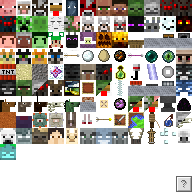
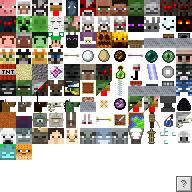
Added identifier aliases for experience orb and iron golem. Added an entity marker for pufferfish. Further corrected a problem with purging markers outside the viewport: the CalculateViewPort method was returning the height in place of the max Z coordinate.

Changed region(s): [[0.0625, 0.75, 0.1875, 0.8438]]

diff --git a/app/src/main/java/com/mithrilmania/blocktopograph/map/Entity.java b/app/src/main/java/com/mithrilmania/blocktopograph/map/Entity.java
@@ -29,7 +29,7 @@ public enum Entity implements NamedBitmapProviderHandle, NamedBitmapProvider {
     SQUID(17, "Squid", new String[]{ "Squid", "squid" }, "squid", 5),
     RABBIT(18, "Rabbit", new String[]{ "Rabbit", "rabbit" }, "rabbit", 89),
     BAT(19, "Bat", new String[]{ "Bat", "bat" }, "bat", 64),
-    VILLAGER_GOLEM(20, "Iron Golem", new String[]{ "VillagerGolem", "IronGolem", "villagergolem", "irongolem", "iron-golem" }, "iron-golem", 48),
+    VILLAGER_GOLEM(20, "Iron Golem", new String[]{ "VillagerGolem", "IronGolem", "villagergolem", "irongolem", "iron-golem", "iron_golem" }, "iron-golem", 48),
     SNOW_MAN(21, "Snow Golem", new String[]{ "SnowMan", "SnowGolem", "snowman", "snowgolem", "snow-golem" }, "snow-golem", 31),
     OZELOT(22, "Ocelot", new String[]{ "Ozelot", "Ocelot", "ozelot", "ocelot", "cat" }, "ozelot", 37),
     HORSE(23, "Donkey", new String[]{ "EntityHorse", "Horse", "entityhorse", "horse" }, "horse", 73),
@@ -79,7 +79,7 @@ public enum Entity implements NamedBitmapProviderHandle, NamedBitmapProvider {
     FALLING_SAND(66, "Falling Block", new String[]{ "FallingBlock", "falling-sand", "fallingblock" }, "falling-sand", 50),
     ITEM_FRAME(67, "Item Frame", new String[]{ "ItemFrame", "itemframe", "empty-item-frame" }, "empty-item-frame", 66),//67 ; ItemFrame is not yet in the game
     THROWN_EXP_BOTTLE(68, "Bottle o' Enchanting", new String[]{ "ThrownExpBottle", "ExperiencePotion", "thrownexpbottle" }, "ThrownExpBottle", 56),
-    XP_ORB(69, "Experience Orb", new String[]{ "XPOrb", "ExperienceOrb", "experience-orb", "experienceorb" }, "experience-orb", 59),
+    XP_ORB(69, "Experience Orb", new String[]{ "XPOrb", "ExperienceOrb", "experience-orb", "experienceorb", "xp_orb" }, "experience-orb", 59),
     EYE_OF_ENDER_SIGNAL(70, "Eye of Ender", new String[]{ "EyeOfEnderSignal", "eyeofendersignal", "eye-of-ender" }, "eye-of-ender", 47),
     ENDER_CRYSTAL(71, "Ender Crystal", new String[]{ "EnderCrystal", "endercrystal", "ender-crystal" }, "ender-crystal", 52),
     //72
@@ -118,6 +118,7 @@ public enum Entity implements NamedBitmapProviderHandle, NamedBitmapProvider {
     FIREWORKS_ROCKET_ENTITY(903, "Firework Rocket", new String[]{ "FireworksRocketEntity", "fireworksrocketentity", "fireworks-rocket" }, "fireworks-rocket", 144),//95 ; FireworksRocketEntity is not in the game yet
     PILLAGER(102, "Pillager", new String[] {"pillager"}, "pillager", 102),
     DROWNED(103, "Drowned", new String[]{ "drowned" }, "drowned", 109),
+    PUFFERFISH(104, "Pufferfish", new String[]{ "pufferfish" }, "pufferfish", 110),
     UNKNOWN(999, "Unknown", new String[]{ "Unknown", "unknown" }, "unknown", 144);
 
     public final int id, sheetPos;

diff --git a/app/src/main/java/com/mithrilmania/blocktopograph/map/MapFragment.java b/app/src/main/java/com/mithrilmania/blocktopograph/map/MapFragment.java
@@ -911,7 +911,7 @@ public class MapFragment extends Fragment {
         long blockW = Math.round( (tileView.getWidth() + marginX + marginX) / pixelsPerBlockW );
         long blockH = Math.round( (tileView.getHeight() + marginZ + marginZ) / pixelsPerBlockL );
 
-        return new Object[]{ blockX, blockX + blockW, blockZ, blockH, dimension };
+        return new Object[]{ blockX, blockX + blockW, blockZ, blockZ + blockH, dimension };
     }
 
     public AsyncTask retainViewPortMarkers(final Runnable callback){
